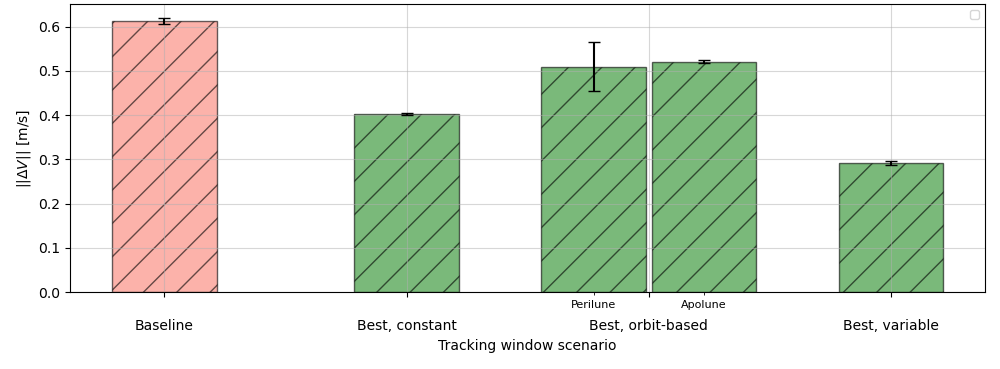
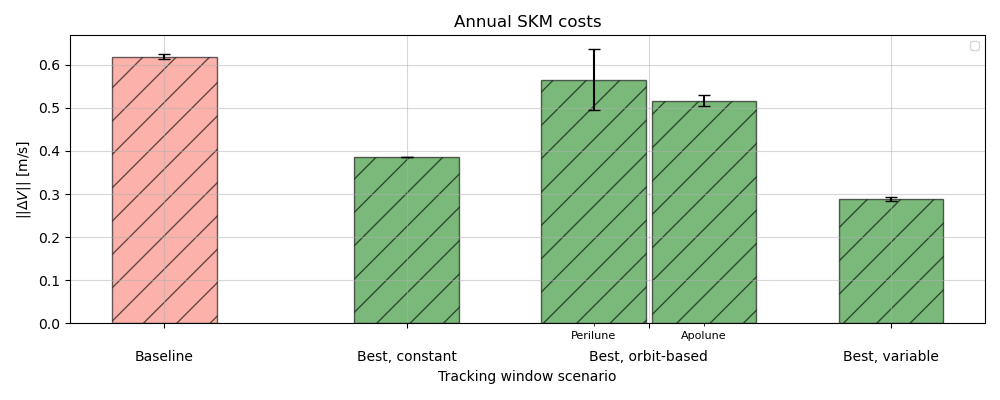
update

diff --git a/simulations/tests/analysis/navigation_analysis.py b/simulations/tests/analysis/navigation_analysis.py
@@ -35,7 +35,7 @@ auxilary_settings = {
     # "target_point_epochs": [35, 42],
     # "target_point_epochs": [21, 28],
     # "delta_v_min": 0.02
-    "seed": 5
+    # "seed": 5
 }
 
 
@@ -142,22 +142,22 @@ observation_windows_settings = {
 # }
 
 mission_start_epoch = 60390
-num_runs = 5
+num_runs = 1
 observation_windows_settings = {
     f"Baseline": [
         (helper_functions.get_constant_arc_observation_windows(28, arc_interval=3.0, arc_duration=1.0), num_runs, None),
     ],
-    f"Best, constant": [
-        (helper_functions.get_constant_arc_observation_windows(28, arc_interval=0.5, arc_duration=0.5), num_runs, None),
-    ],
-    f"Best, orbit-based": [
-        (helper_functions.get_orbit_based_arc_observation_windows(28, margin=0.075, threshold=0.1, pass_interval=6, apolune=False), num_runs, "Perilune"),
-        (helper_functions.get_orbit_based_arc_observation_windows(28, margin=0.075, threshold=0.1, pass_interval=4, apolune=True), num_runs, "Apolune"),
-    ],
+    # f"Best, constant": [
+    #     (helper_functions.get_constant_arc_observation_windows(28, arc_interval=0.5, arc_duration=0.5), num_runs, None),
+    # ],
+    # f"Best, orbit-based": [
+    #     (helper_functions.get_orbit_based_arc_observation_windows(28, margin=0.075, threshold=0.1, pass_interval=6, apolune=False), num_runs, "Perilune"),
+    #     (helper_functions.get_orbit_based_arc_observation_windows(28, margin=0.075, threshold=0.1, pass_interval=4, apolune=True), num_runs, "Apolune"),
+    # ],
     # f"Best, apolune": [
     #     (helper_functions.get_orbit_based_arc_observation_windows(28, margin=0.075, threshold=0.1, pass_interval=4, apolune=True), num_runs, "Apolune"),
     # ],
-    f"Best, variable": [
+    f"Optimized": [
         ([
         [
             60390,
@@ -240,8 +240,8 @@ for type_index, (window_type, navigation_outputs_cases) in enumerate(navigation_
                         # process_single_navigation_results.plot_uncertainty_history()
                         # process_single_navigation_results.plot_dispersion_history(plot3d=True)
                         # process_single_navigation_results.plot_dispersion_history(plot3d=False)
-                        # process_single_navigation_results.plot_full_state_history(show_trajectories_only=False)
-                        # process_single_navigation_results.plot_full_state_history(show_trajectories_only=True)
+                        process_single_navigation_results.plot_full_state_history(show_trajectories_only=False)
+                        process_single_navigation_results.plot_full_state_history(show_trajectories_only=True)
                         # process_single_navigation_results.plot_formal_error_history()
                         # process_single_navigation_results.plot_observations()
                         # process_single_navigation_results.plot_correlation_history()
@@ -265,7 +265,7 @@ process_multiple_navigation_results = ProcessNavigationResults.PlotMultipleNavig
 process_multiple_navigation_results.plot_maneuvre_costs(separate_plots=True, include_velocity=False)
 process_multiple_navigation_results.plot_maneuvre_costs(separate_plots=True, include_velocity=True)
 process_multiple_navigation_results.plot_maneuvre_costs(separate_plots=True, include_velocity=True, plot_individual_states=True)
-process_multiple_navigation_results.plot_full_state_history_comparison(step_size=0.001)
+process_multiple_navigation_results.plot_full_state_history_comparison(step_size=0.01)
 # process_multiple_navigation_results.plot_monte_carlo_estimation_error_history(evaluation_threshold=14)
 # process_multiple_navigation_results.plot_estimation_arc_comparison(evaluation_threshold=14, bar_labeler=None,  worst_case=False)
 process_multiple_navigation_results.plot_maneuvre_costs_bar_chart(evaluation_threshold=14, show_annual=False, bar_labeler=None, worst_case=False, observation_windows_settings=observation_windows_settings)

diff --git a/simulations/tests/postprocessing/ProcessNavigationResults.py b/simulations/tests/postprocessing/ProcessNavigationResults.py
@@ -6,6 +6,7 @@ import numpy as np
 import time
 import matplotlib.pyplot as plt
 from scipy.interpolate import interp1d
+from scipy.stats import shapiro
 from matplotlib.ticker import ScalarFormatter
 from collections import defaultdict
 
@@ -601,7 +602,7 @@ class PlotSingleNavigationResults():
                         best_residual_history = residual_history[i*index:(i+1)*index, best_iteration]
 
                         ax[1].scatter(observation_times, best_residual_history, color=color, s=s)
-                        from scipy.stats import shapiro
+
                         stat, p_value = shapiro(best_residual_history)
                         ax1.hist(best_residual_history, bins=20, histtype='step', alpha=0.9, color=color, linewidth=2, label=f"Arc {arc_num+1}, {stat > p_value}")
 
